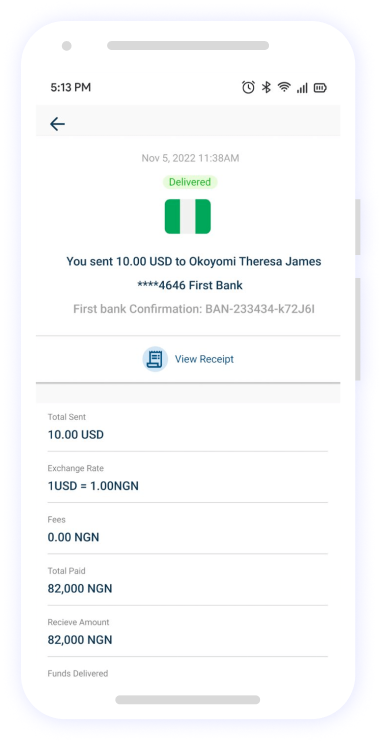
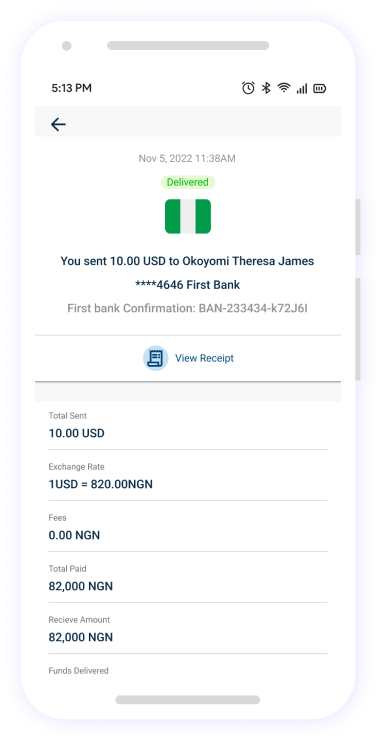
changes exchange rate

diff --git a/landing-page/src/styles/home/procedures.css b/landing-page/src/styles/home/procedures.css
@@ -78,6 +78,10 @@
     position: relative;
 }
 
+.phone-numbers .numberings .number:hover{
+    cursor: pointer;
+}
+
 .phone-numbers .numberings .number{
     border-radius: 12px;
     width: 41px;
